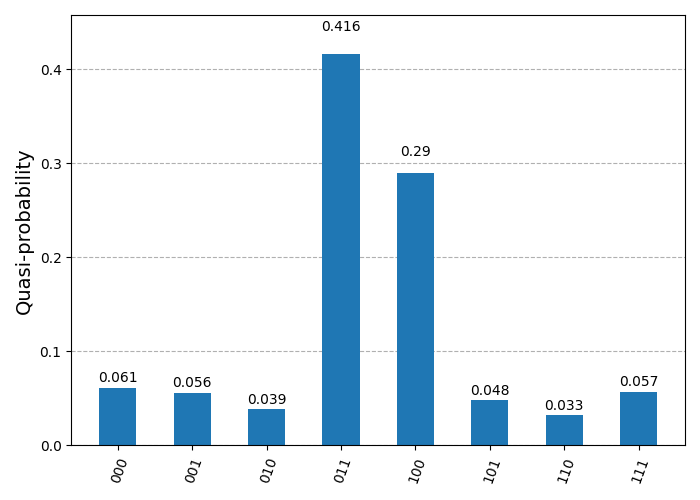
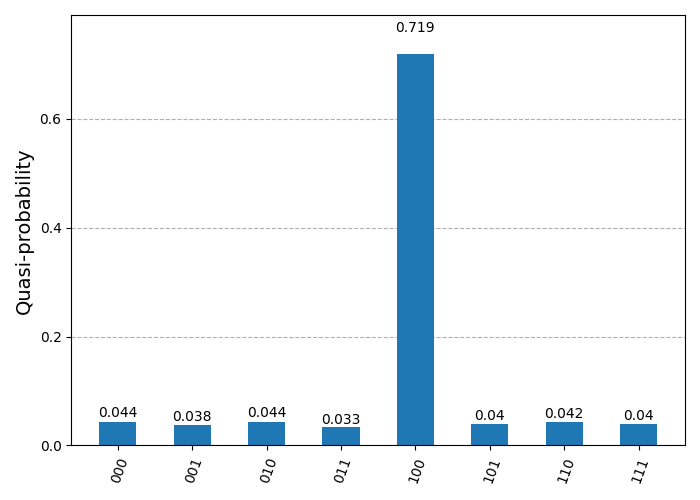
tidy up search

diff --git a/search/__main__.py b/search/__main__.py
@@ -1,102 +1,43 @@
-# taken from https://quantum.cloud.ibm.com/docs/en/tutorials/grovers-algorithm
+from search.searcher import Searcher
+import argparse
+import time
 
-# Built-in modules
-import math
-import matplotlib.pyplot as plt
+def main():
+    parser = argparse.ArgumentParser()
+    parser.add_argument("list_to_search", help="List to search", nargs='+', type=int)
+    parser.add_argument("element_to_find", help="Element to find", type=int)
+    parser.add_argument(
+        "--real", 
+        help="Use a real quantum IBM instance instead of a local simulator",
+        action="store_true",
+        dest="use_real_device"
+    )
+    args = parser.parse_args()
 
-# Imports from Qiskit
-from qiskit import QuantumCircuit
-from qiskit.circuit.library import grover_operator, MCMTGate, ZGate
-from qiskit.visualization import plot_distribution
-from qiskit.transpiler.preset_passmanagers import generate_preset_pass_manager
+    searcher = Searcher(
+        list_to_search = args.list_to_search, 
+        use_real_device=args.use_real_device
+    )    
 
+    start_classical = time.time()
+    classical_result = searcher.classical_search(args.element_to_find)
+    end_classical = time.time()
+    print(f"Classical search found element at index: {classical_result}")
+    print(f"Time: {(end_classical-start_classical):.6f} seconds")
 
-# Imports from Qiskit Runtime
-from qiskit_ibm_runtime import QiskitRuntimeService
-from qiskit_ibm_runtime import SamplerV2 as Sampler
- 
- 
-def grover_oracle(marked_states):
-    """Build a Grover oracle for multiple marked states
- 
-    Here we assume all input marked states have the same number of bits
- 
-    Parameters:
-        marked_states (str or list): Marked states of oracle
- 
-    Returns:
-        QuantumCircuit: Quantum circuit representing Grover oracle
-    """
-    if not isinstance(marked_states, list):
-        marked_states = [marked_states]
-    # Compute the number of qubits in circuit
-    num_qubits = len(marked_states[0])
- 
-    qc = QuantumCircuit(num_qubits)
-    # Mark each target state in the input list
-    for target in marked_states:
-        # Flip target bit-string to match Qiskit bit-ordering
-        rev_target = target[::-1]
-        # Find the indices of all the '0' elements in bit-string
-        zero_inds = [
-            ind
-            for ind in range(num_qubits)
-            if rev_target.startswith("0", ind)
-        ]
-        # Add a multi-controlled Z-gate with pre- and post-applied X-gates (open-controls)
-        # where the target bit-string has a '0' entry
-        if zero_inds:
-            qc.x(zero_inds)
-        qc.compose(MCMTGate(ZGate(), num_qubits - 1, 1), inplace=True)
-        if zero_inds:
-            qc.x(zero_inds)
-    return qc
+    start_quantum = time.time()
+    # For simplicity, we'll search for the binary representation of the index.
+    # This is not a perfect comparison to the classical search, but demonstrates Grover's.
+    num_qubits = (len(args.list_to_search)-1).bit_length()
+    binary_index_to_find = format(args.list_to_search.index(args.element_to_find), f'0{num_qubits}b')
+    
+    quantum_result = searcher.grover_search(binary_index_to_find)
+    end_quantum = time.time()
+    
+    print(f"Quantum search result: {quantum_result}")
+    print(f"Time: {(end_quantum-start_quantum):.6f} seconds")
+    searcher.plot_distribution(quantum_result)
+    
 
-
-# To run on hardware, select the backend with the fewest number of jobs in the queue
-service = QiskitRuntimeService()
-backend = service.least_busy(
-    operational=True, simulator=False, min_num_qubits=127
-)
-backend.name
-
-marked_states = ["011", "100"]
- 
-oracle = grover_oracle(marked_states)
-oracle.draw(output="mpl", style="iqp")
-
-grover_op = grover_operator(oracle)
-grover_op.decompose().draw(output="mpl", style="iqp")
-
-optimal_num_iterations = math.floor(
-    math.pi
-    / (4 * math.asin(math.sqrt(len(marked_states) / 2**grover_op.num_qubits)))
-)
-
-qc = QuantumCircuit(grover_op.num_qubits)
-# Create even superposition of all basis states
-qc.h(range(grover_op.num_qubits))
-# Apply Grover operator the optimal number of times
-qc.compose(grover_op.power(optimal_num_iterations), inplace=True)
-# Measure all qubits
-qc.measure_all()
-qc.draw(output="mpl", style="iqp")
-
-
-target = backend.target
-pm = generate_preset_pass_manager(target=target, optimization_level=3)
- 
-circuit_isa = pm.run(qc)
-circuit_isa.draw(output="mpl", idle_wires=False, style="iqp")
-
-
-# To run on local simulator:
-#   1. Use the StatevectorSampler from qiskit.primitives instead
-sampler = Sampler(mode=backend)
-sampler.options.default_shots = 10_000
-result = sampler.run([circuit_isa]).result()
-dist = result[0].data.meas.get_counts()
-
-plot_distribution(dist)
-
-plt.savefig('search/distribution.png')
+if __name__ == "__main__":
+    main()

diff --git a/search/searcher.py b/search/searcher.py
@@ -1,0 +1,95 @@
+
+import math
+from qiskit import QuantumCircuit
+from qiskit.circuit.library import grover_operator, MCMTGate, ZGate
+from qiskit_ibm_runtime import QiskitRuntimeService, SamplerV2 as Sampler
+from qiskit_aer import Aer
+from qiskit.transpiler.preset_passmanagers import generate_preset_pass_manager
+
+class Searcher:
+    def __init__(self, list_to_search, use_real_device: bool = False):
+        self.list_to_search = list_to_search
+        self.use_real_device = use_real_device
+        self.__backend = None
+
+    def classical_search(self, element_to_find):
+        for i, element in enumerate(self.list_to_search):
+            if element == element_to_find:
+                return i
+        return -1
+
+    def grover_search(self, marked_states):
+        oracle = self.__grover_oracle(marked_states)
+        grover_op = grover_operator(oracle)
+        optimal_num_iterations = math.floor(
+            math.pi
+            / (4 * math.asin(math.sqrt(len(marked_states) / 2**grover_op.num_qubits)))
+        )
+        qc = QuantumCircuit(grover_op.num_qubits)
+        qc.h(range(grover_op.num_qubits))
+        qc.compose(grover_op.power(optimal_num_iterations), inplace=True)
+        qc.measure_all()
+        qc = qc.decompose()
+
+        if self.use_real_device:
+            if not self.__backend:
+                print("Connecting to IBM Quantum service...")
+                service = QiskitRuntimeService()
+                self.__backend = service.least_busy(simulator=False, operational=True)
+                print(f"Using backend: {self.__backend.name}")
+            
+            pm = generate_preset_pass_manager(target=self.__backend.target, optimization_level=3)
+            circuit_isa = pm.run(qc)
+            sampler = Sampler(self.__backend)
+            result = sampler.run([circuit_isa]).result()
+            dist = result[0].data.meas.get_counts()
+            return dist
+        else:
+            aer_sim = Aer.get_backend('aer_simulator')
+            sampler = Sampler(aer_sim)
+            result = sampler.run([qc]).result()
+            dist = result[0].data.meas.get_counts()
+            return dist
+
+
+    def __grover_oracle(self, marked_states):
+        if not isinstance(marked_states, list):
+            marked_states = [marked_states]
+        num_qubits = len(marked_states[0])
+        qc = QuantumCircuit(num_qubits)
+        for target in marked_states:
+            rev_target = target[::-1]
+            zero_inds = [
+                ind
+                for ind in range(num_qubits)
+                if rev_target.startswith("0", ind)
+            ]
+            if zero_inds:
+                qc.x(zero_inds)
+            qc.compose(MCMTGate(ZGate(), num_qubits - 1, 1), inplace=True)
+            if zero_inds:
+                qc.x(zero_inds)
+    def __grover_oracle(self, marked_states):
+        if not isinstance(marked_states, list):
+            marked_states = [marked_states]
+        num_qubits = len(marked_states[0])
+        qc = QuantumCircuit(num_qubits)
+        for target in marked_states:
+            rev_target = target[::-1]
+            zero_inds = [
+                ind
+                for ind in range(num_qubits)
+                if rev_target.startswith("0", ind)
+            ]
+            if zero_inds:
+                qc.x(zero_inds)
+            qc.compose(MCMTGate(ZGate(), num_qubits - 1, 1), inplace=True)
+            if zero_inds:
+                qc.x(zero_inds)
+        return qc.decompose()
+
+    def plot_distribution(self, dist):
+        from qiskit.visualization import plot_distribution
+        import matplotlib.pyplot as plt
+        plot_distribution(dist)
+        plt.savefig('search/distribution.png')

diff --git a/search/README.md b/search/README.md
@@ -1,0 +1,7 @@
+there's so much noise that sometimes the highest probability result is not the correct answer
+
+often it works alright to be fair
+
+there's a lot of slowness with IO which i'm assuming has to do with the connection rather than the bandwidth of the computer
+
+although i am aware that bandwidth of these machines is severely limited
